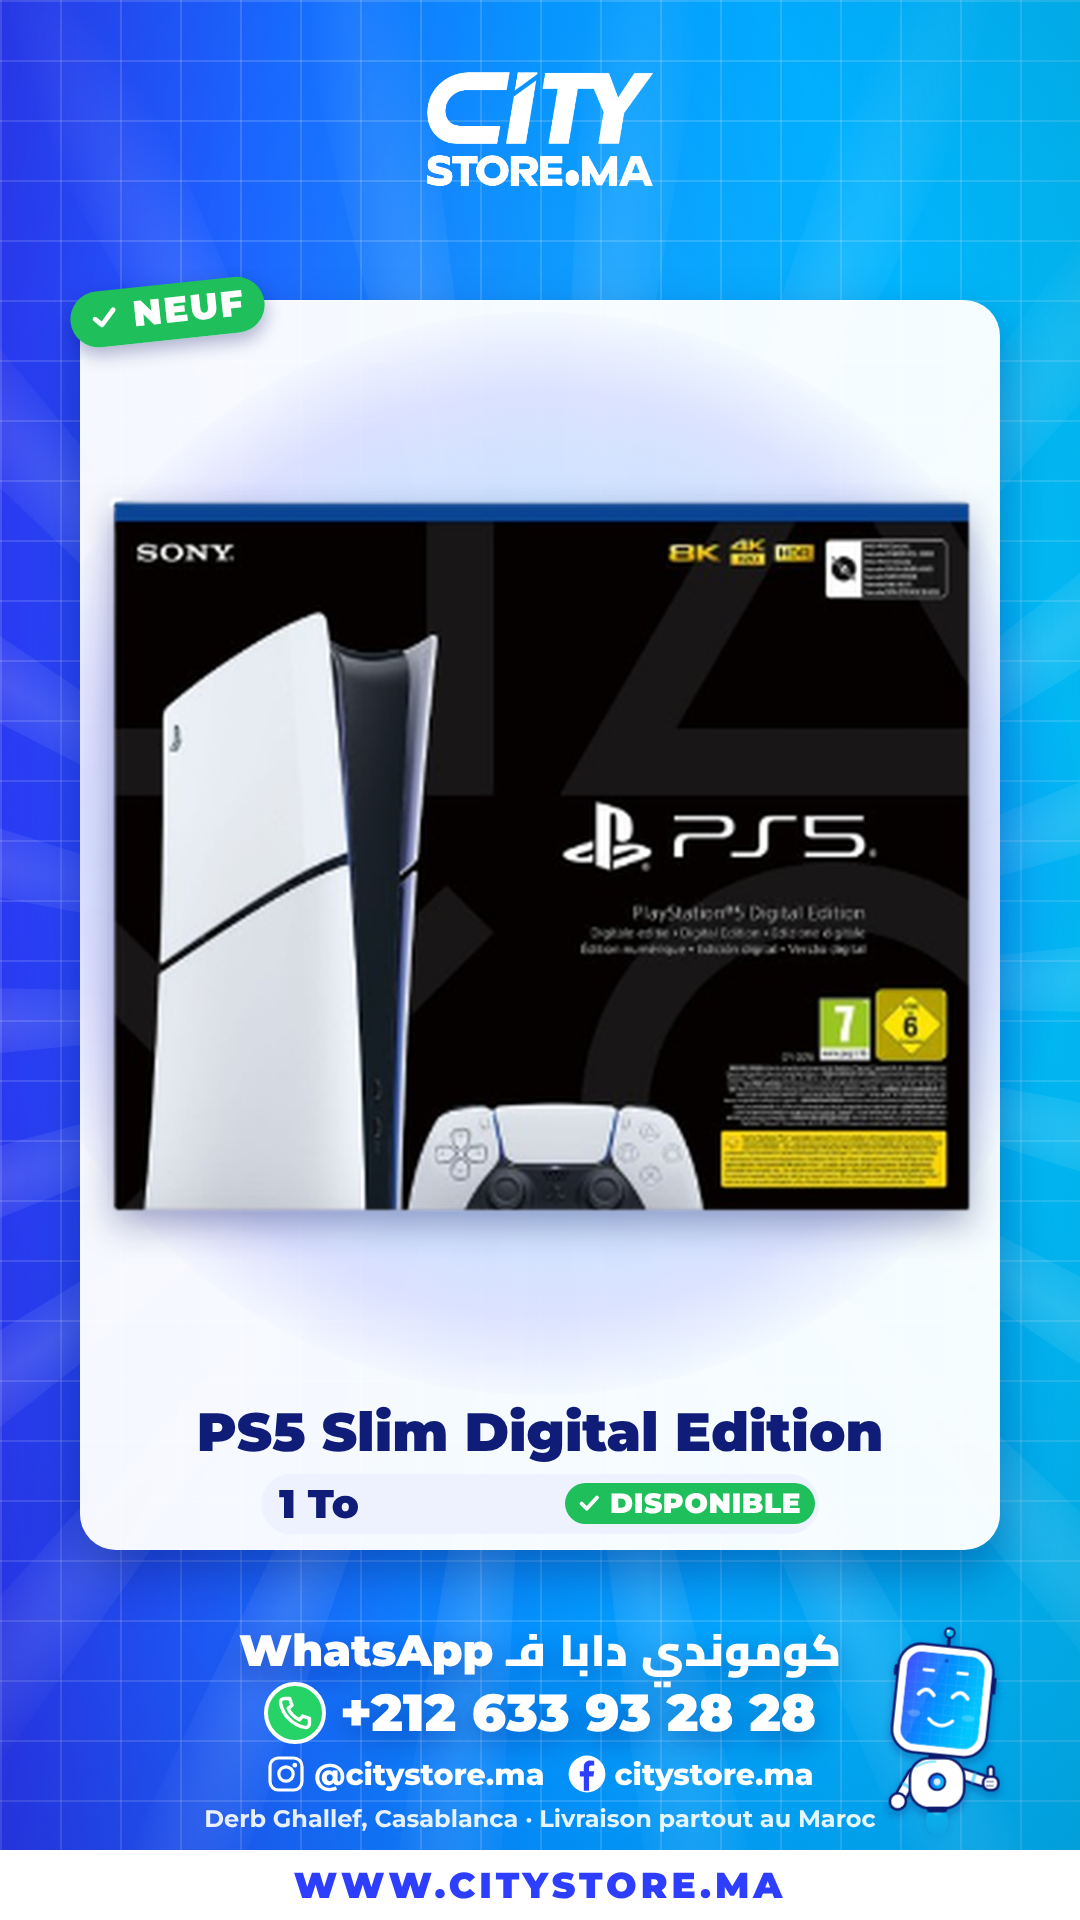
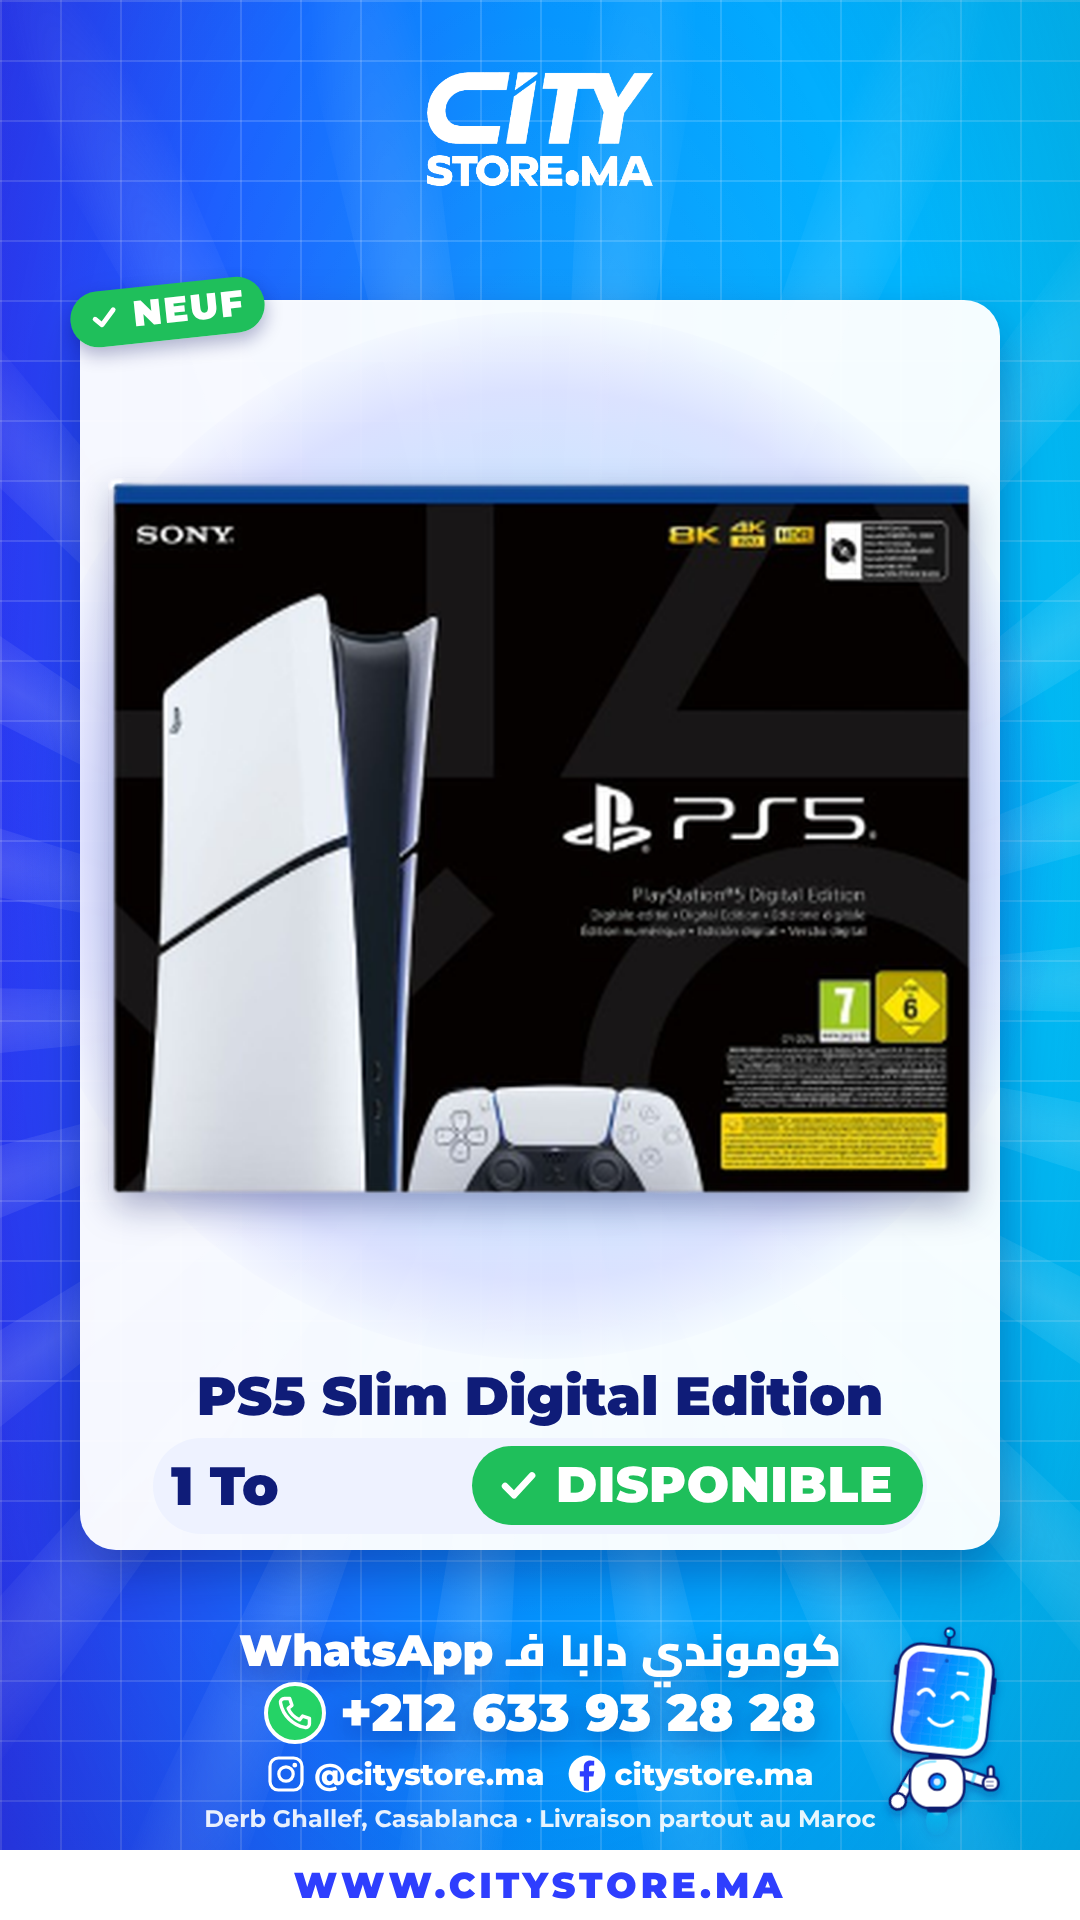
PS5 story: bigger DISPONIBLE row on the single-product hero card
Claude-Session: https://claude.ai/code/session_01B6UvVnyVQqoyQ1GwELGaCV

Changed region(s): [[0.0917, 0.25, 0.9167, 0.6562], [0.1528, 0.7188, 0.8556, 0.8125]]

diff --git a/src/pricelist/PriceList.tsx b/src/pricelist/PriceList.tsx
@@ -68,7 +68,7 @@ const StockCard: React.FC<{ it: PriceItem; w: number; h: number; maxRows: number
   const padTop = 12, padBottom = it.price ? tagSize * 1.1 : 16;
   const nameMax = hero ? 58 : compact ? 28 : 30;
   const nameSize = Math.min(nameMax, (w - 40) / (it.name.length * 0.68));
-  const rowH = hero ? 60 : compact ? 27 : 36, rowGap = compact ? 4 : 5; // maxRows: the longest list in the story, so every card keeps the same rows
+  const rowH = hero ? 96 : compact ? 27 : 36, rowGap = compact ? 4 : 5; // maxRows: the longest list in the story, so every card keeps the same rows
   const sizesH = rowH * maxRows + rowGap * (maxRows - 1); // same height whatever the number of sizes
   const specH = it.spec || specRow ? (compact ? 24 : 30) : 0; // optional line under the name (e.g. "Wi-Fi + 5G"); kept empty when another card has one
   const slotH = h - padTop - padBottom - nameMax * 1.15 - 4 - specH - sizesH - 8;
@@ -93,10 +93,10 @@ const StockCard: React.FC<{ it: PriceItem; w: number; h: number; maxRows: number
             </span>
           </div>
         ) : (
-          <div key={r} style={{ height: rowH, width: Math.min(w - 30, Math.max(compact ? 300 : 360, Math.max(...(it.stock ?? [r]).map((x) => x.length)) * (compact ? 13 : 17) + (compact ? 150 : 190)) * (hero ? 1.55 : 1)), gap: 12, display: "flex", alignItems: "center", justifyContent: "space-between", background: "#EEF2FF", borderRadius: 999, padding: "0 4px 0 18px" }}>
-            <span style={{ fontFamily: FONT, fontWeight: 900, fontSize: hero ? 40 : compact ? 19 : 25, color: INK, whiteSpace: "nowrap" }}>{r}</span>
-            <span style={{ display: "inline-flex", alignItems: "center", gap: 5, background: GREEN, color: "#fff", fontFamily: FONT, fontWeight: 900, fontSize: hero ? 28 : compact ? 14 : 18, letterSpacing: 0.5, padding: "3px 14px 4px 8px", borderRadius: 999 }}>
-              <LineIcon name="check" size={hero ? 32 : compact ? 15 : 20} stroke={12} color="#fff" />DISPONIBLE
+          <div key={r} style={{ height: rowH, width: Math.min(w - 30, Math.max(compact ? 300 : 360, Math.max(...(it.stock ?? [r]).map((x) => x.length)) * (compact ? 13 : 17) + (compact ? 150 : 190)) * (hero ? 2.15 : 1)), gap: 12, display: "flex", alignItems: "center", justifyContent: "space-between", background: "#EEF2FF", borderRadius: 999, padding: "0 4px 0 18px" }}>
+            <span style={{ fontFamily: FONT, fontWeight: 900, fontSize: hero ? 54 : compact ? 19 : 25, color: INK, whiteSpace: "nowrap" }}>{r}</span>
+            <span style={{ display: "inline-flex", alignItems: "center", gap: hero ? 10 : 5, background: GREEN, color: "#fff", fontFamily: FONT, fontWeight: 900, fontSize: hero ? 50 : compact ? 14 : 18, letterSpacing: 0.5, padding: hero ? "8px 30px 10px 18px" : "3px 14px 4px 8px", borderRadius: 999 }}>
+              <LineIcon name="check" size={hero ? 56 : compact ? 15 : 20} stroke={12} color="#fff" />DISPONIBLE
             </span>
           </div>
         ))}
